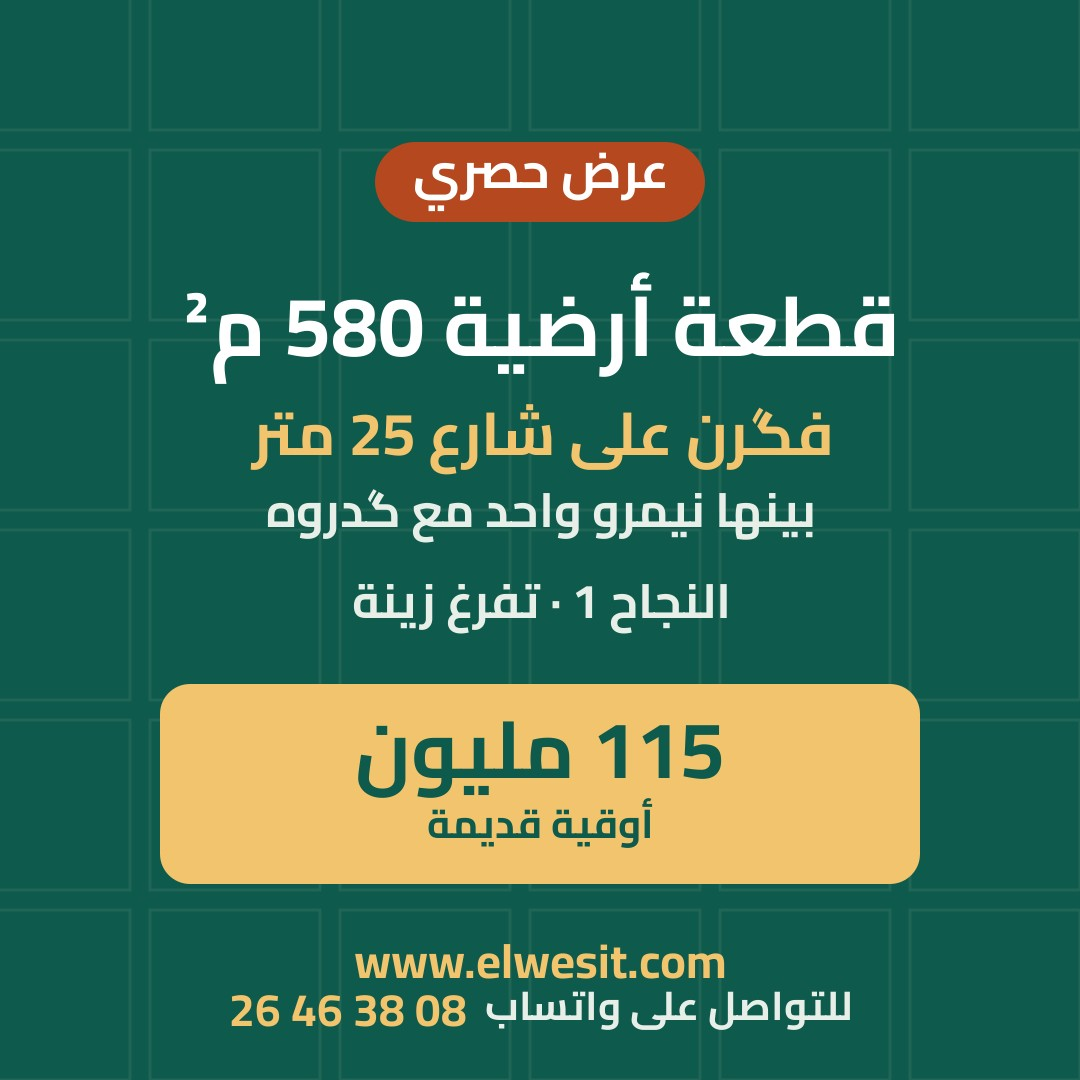
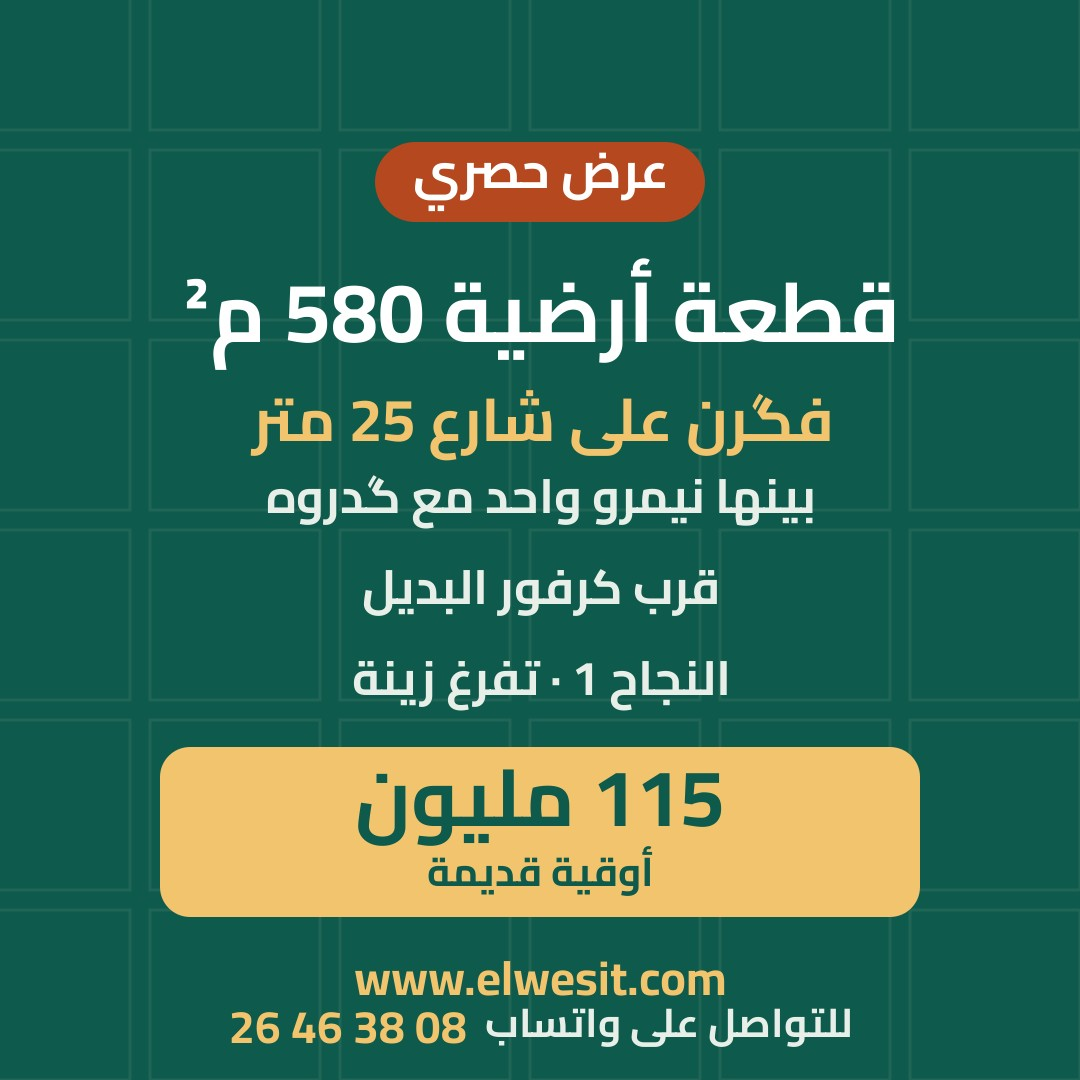
عروض المستودع: تعديل المجلد يُطبَّق مرة واحدة (بصمة المحتوى)، وإضافة «قرب كرفور البديل» لعرض النجاح 1
Claude-Session: https://claude.ai/code/session_019Yv9GEjUX7hQ1gEMNyAqtz

Changed region(s): [[0.1222, 0.6111, 0.8556, 0.9778], [0.1528, 0.2444, 0.825, 0.5806]]

diff --git a/server/repo-listings.js b/server/repo-listings.js
@@ -1,13 +1,15 @@
 // عروض تأتي مع الكود: مجلد لكل عرض في content/listings/<key>/ فيه listing.json وصوره (jpg/png/webp).
 // عند التشغيل يُنشأ كل عرض جديد ويُنشر مرة واحدة، فينشر Claude عروض المالك بطلب منه دون أي كلمة مرور.
-// المعرّف مشتق من اسم المجلد، فلا يتكرر العرض، وما يعدّله المالك أو يسحبه من لوحة الإدارة يبقى كما هو.
+// المعرّف مشتق من اسم المجلد، فلا يتكرر العرض. إذا تغيّر محتوى المجلد طُبّق التعديل مرة واحدة على
+// الحقول المذكورة فيه وعلى الصور؛ وما عدا ذلك مما يعدّله المالك أو يسحبه من لوحة الإدارة يبقى كما هو.
 import fs from 'node:fs';
 import path from 'node:path';
 import crypto from 'node:crypto';
 import { config } from './config.js';
-import { createRow, updateRow } from './entities.js';
+import { db, now } from './db.js';
+import { createRow, updateRow, getRow } from './entities.js';
 import { storeUpload } from './media.js';
-import { publishProperty } from './publish.js';
+import { publishProperty, refreshIfPublished } from './publish.js';
 
 const PHOTO = /\.(jpe?g|png|webp)$/i;
 const MIME = { jpg: 'image/jpeg', jpeg: 'image/jpeg', png: 'image/png', webp: 'image/webp' };
@@ -28,17 +30,33 @@ export async function importRepoListings(dir = path.join(config.root, 'content',
     try {
       const id = listingId(key);
       const fields = JSON.parse(fs.readFileSync(spec, 'utf8'));
+      const photoFiles = fs.readdirSync(folder).filter((f) => PHOTO.test(f)).sort();
+      const h = crypto.createHash('sha256');
+      for (const f of ['listing.json', ...photoFiles]) h.update(f).update(fs.readFileSync(path.join(folder, f)));
+      const hash = h.digest('hex');
+      const seen = db().prepare('SELECT hash FROM repo_listings WHERE key = ?').get(key);
+      if (seen?.hash === hash) continue;
       const out = createRow('properties', { ...fields, id }, null);
-      if (out.existed) continue;
+      const remember = () => db().prepare('INSERT INTO repo_listings (key, hash, updated_at) VALUES (?, ?, ?) ON CONFLICT(key) DO UPDATE SET hash = excluded.hash, updated_at = excluded.updated_at').run(key, hash, now());
       const photos = [];
-      for (const [i, f] of fs.readdirSync(folder).filter((f) => PHOTO.test(f)).sort().entries()) {
+      for (const [i, f] of photoFiles.entries()) {
         const ext = f.split('.').pop().toLowerCase();
-        const file = await storeUpload({ buffer: fs.readFileSync(path.join(folder, f)), mimetype: MIME[ext], originalname: f, kind: 'photo', owner_type: 'property', owner_id: id, id: listingId(`${key}/${i}`) }, null);
+        const file = await storeUpload({ buffer: fs.readFileSync(path.join(folder, f)), mimetype: MIME[ext], originalname: f, kind: 'photo', owner_type: 'property', owner_id: id, id: listingId(`${key}/${hash.slice(0, 12)}/${i}`) }, null);
         photos.push(file.id);
+      }
+      if (out.existed) {
+        const cur = getRow('properties', id);
+        updateRow('properties', id, { ...fields, ...(photos.length ? { pub_photo_ids: photos } : {}) }, cur.version, null, { force: true });
+        await refreshIfPublished(id, null);
+        remember();
+        console.log('[repo-listings] عُدّل', key, cur.ref);
+        done.push({ key, id, ref: cur.ref, updated: true });
+        continue;
       }
       if (photos.length) updateRow('properties', id, { pub_photo_ids: photos }, out.row.version, null);
       const pub = await publishProperty(id, null);
       if (pub.problems) { console.error('[repo-listings]', key, pub.problems.join('، ')); continue; }
+      remember();
       console.log('[repo-listings] نُشر', key, out.row.ref);
       done.push({ key, id, ref: out.row.ref });
     } catch (e) {

diff --git a/tests/unit/repo-listings.test.js b/tests/unit/repo-listings.test.js
@@ -38,3 +38,18 @@ test('العرض الذي سحبه المالك لا يُعاد نشره', async
   await importRepoListings(src);
   assert.equal(db().prepare('SELECT published FROM properties WHERE id = ?').get(id).published, 0);
 });
+
+test('تعديل المجلد يُطبَّق مرة واحدة على العرض المنشور وصوره', async () => {
+  const id = listingId('iskan1-400');
+  db().prepare('UPDATE properties SET published = 1 WHERE id = ?').run(id);
+  const spec = path.join(src, 'iskan1-400', 'listing.json');
+  fs.writeFileSync(spec, JSON.stringify({ ...JSON.parse(fs.readFileSync(spec, 'utf8')), pub_title: 'قطعة 400 م² قرب كرفور' }));
+  await sharp({ create: { width: 64, height: 48, channels: 3, background: '#b5481f' } }).jpeg().toFile(path.join(src, 'iskan1-400', '1.jpg'));
+  const done = await importRepoListings(src);
+  assert.equal(done.length, 1);
+  assert.equal(done[0].updated, true);
+  const p = db().prepare('SELECT * FROM properties WHERE id = ?').get(id);
+  assert.equal(p.pub_title, 'قطعة 400 م² قرب كرفور');
+  assert.equal(publicReadDb().prepare('SELECT title FROM listings WHERE ref = ?').get(p.ref).title, 'قطعة 400 م² قرب كرفور');
+  assert.equal((await importRepoListings(src)).length, 0, 'لا يُعاد التطبيق دون تغيير');
+});
